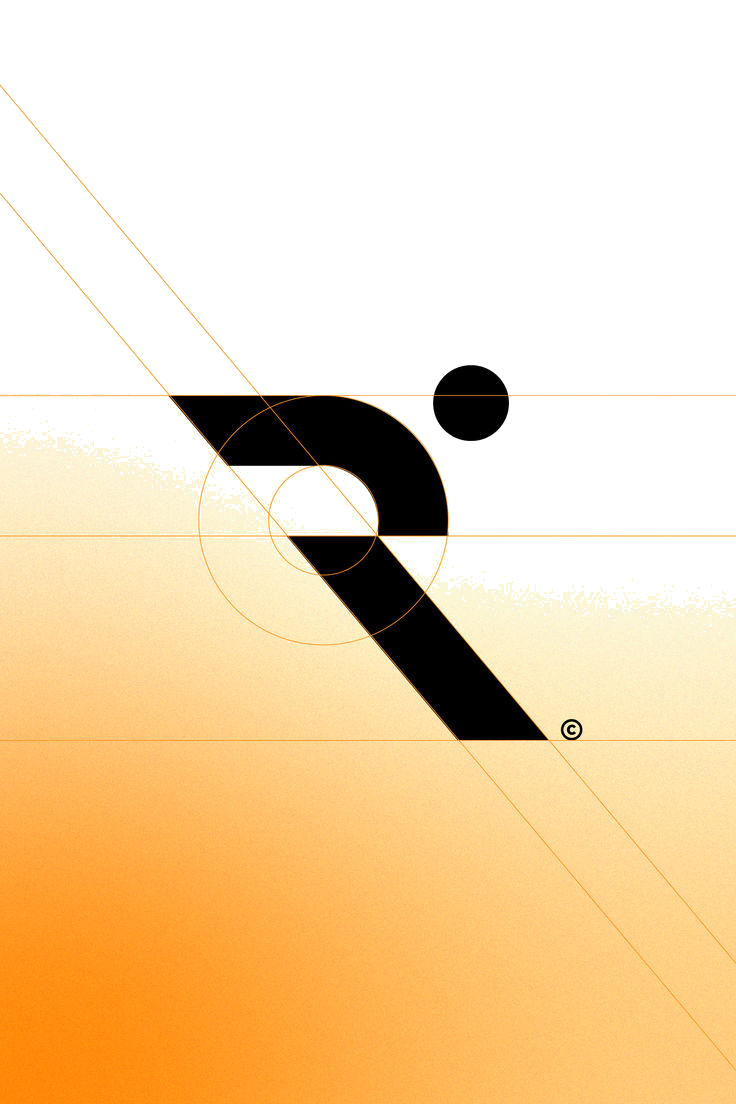
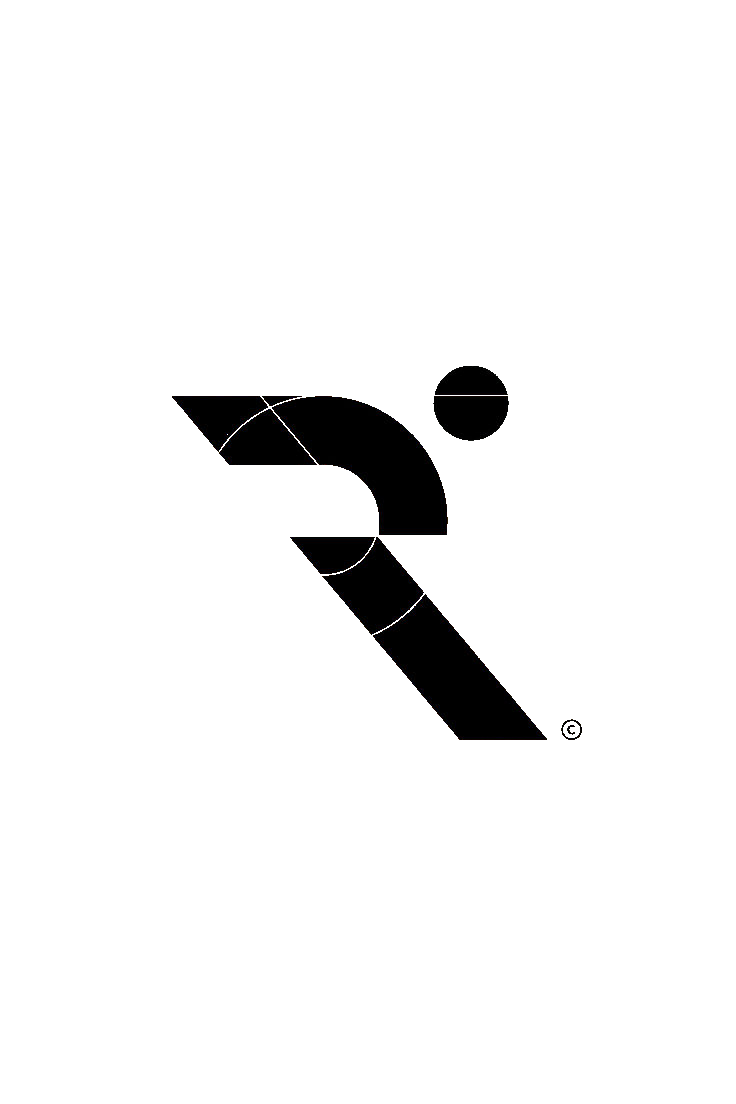
color modifty done

diff --git a/IconColorModify/IconColorModify.py b/IconColorModify/IconColorModify.py
@@ -11,6 +11,7 @@ def modify_image_colors(
     target_fg_color=None,             # replace fg color (RGB, None means not replace fg)
     new_fg_color=None,                # new fg color (RGB, RGBA, or HEX, None means not replace)
     change_all_fg=False,              # if True, change all non-background colors to new_fg_color
+    invert_mask=False,                # if True, invert the color matching mask
     tolerance=40                      # color match tolerance
 ):
     
@@ -47,6 +48,8 @@ def modify_image_colors(
     else:
         # JPG use OpenCV to read, need to convert BGR->RGB
         image = cv2.imread(input_path)
+        if image is None:
+            raise Exception(f"Failed to read image: {input_path}")
         image = cv2.cvtColor(image, cv2.COLOR_BGR2RGB)
         image = np.dstack((image, np.full(image.shape[:2], 255)))
 
@@ -58,6 +61,9 @@ def modify_image_colors(
         bg_diff = np.sqrt(np.sum((image[:, :, :3].astype(float) - target_bg_color) ** 2, axis=2))
         bg_mask = bg_diff < tolerance
         
+        if invert_mask:
+            bg_mask = ~bg_mask  # invert the mask for cases like gradient background
+            
         if new_bg_color is None:  # set transparent
             output_image[bg_mask, 3] = 0
         else:  # replace to new color
@@ -72,6 +78,8 @@ def modify_image_colors(
     elif target_fg_color is not None and new_fg_color is not None:
         fg_diff = np.sqrt(np.sum((image[:, :, :3].astype(float) - target_fg_color) ** 2, axis=2))
         fg_mask = fg_diff < tolerance
+        if invert_mask:
+            fg_mask = ~fg_mask
         output_image[fg_mask, :3] = new_fg_color
 
     # ===[4. save image]===
@@ -109,4 +117,14 @@ if __name__ == "__main__":
         new_fg_color=(0, 255, 0),         # change all non-background
         change_all_fg=True,               # enable change all foreground
         tolerance=40
+    )
+    
+    # 4. handle gradient background by matching dark content
+    modify_image_colors(
+        "IconColorModify/images/4.jpg",
+        "IconColorModify/images/outputs/output4.png",
+        target_bg_color=(0, 0, 0),        # match black content
+        new_bg_color=None,                # make it transparent
+        tolerance=60,                      # higher tolerance for better matching
+        invert_mask=True                  # invert mask to keep black content and remove background
     )
